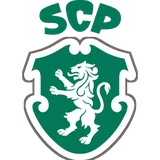
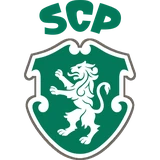
Contorno do Sporting desenhado por dentro, para nao cortar a base

Changed region(s): [[0.125, 0.2188, 0.875, 1.0]]

diff --git a/index.html b/index.html
@@ -101,8 +101,8 @@
       </li>
       <li>
         <picture>
-          <source srcset="assets/img/emblema-sporting.webp?v=2" type="image/webp">
-          <img src="assets/img/emblema-sporting.png?v=2" width="80" height="80" alt="Emblema do Sporting Clube de Portugal" loading="lazy" decoding="async">
+          <source srcset="assets/img/emblema-sporting.webp?v=3" type="image/webp">
+          <img src="assets/img/emblema-sporting.png?v=3" width="80" height="80" alt="Emblema do Sporting Clube de Portugal" loading="lazy" decoding="async">
         </picture>
         <span>Sporting Clube de Portugal</span>
       </li>
